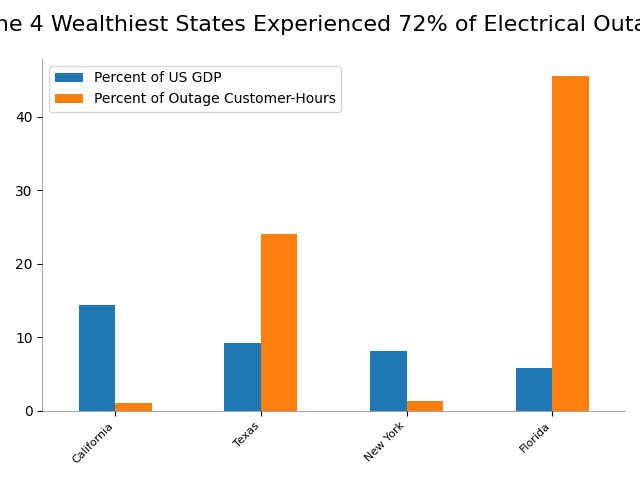
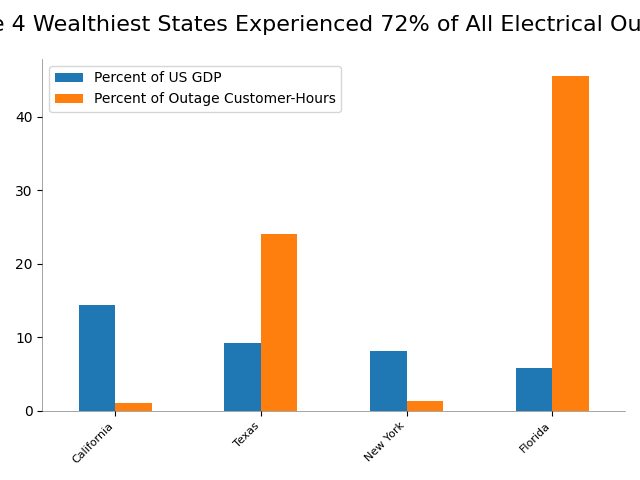
charts cleanup2

Changed region(s): [[0.0, 0.0312, 1.0, 0.0625]]

diff --git a/outages.py b/outages.py
@@ -1,6 +1,6 @@
 import marimo
 
-__generated_with = "0.21.1"
+__generated_with = "0.22.4"
 app = marimo.App(width="medium")
 
 
@@ -13,7 +13,6 @@ def _():
     import numpy as np
     import datetime
     import sqlite3
-    import seaborn as sns
 
     return mo, pd, plt, sqlite3
 
@@ -215,7 +214,6 @@ def _(pd):
     fema_df=fema_df.dropna(subset=['declarationDate'])
     fema_df['Date']=pd.to_datetime(fema_df['declarationDate'])
     fema_df = fema_df[fema_df['Date'].dt.year > 2021]
-    fema_df.head()
     fema_df
     return (fema_df,)
 
@@ -516,14 +514,10 @@ def _(connection, pd, plt):
         limit 3
         """
         graph_df = pd.read_sql(graph_query, connection)
-        #graph_df.set_index('type', inplace=True)
-        # define Seaborn color palette to use
-        #colors = sns.color_palette('dark')
         explode = [0, 0.1, 0.1]
         plt.pie(
             graph_df['Number of Events'],
             labels=graph_df['type'],
-            #colors=colors,
             explode=explode,
             autopct="%1.1f%%",
             #hatch=['**O', 'oO', 'O.O', '.||.'] #uncomment to make beautiful
@@ -690,7 +684,7 @@ def _(connection, pd, plt):
 
         plt.xlabel("Percent of FEMA Grants")
         plt.ylabel("Percent of US Wealth")
-        plt.title("Counties With Leading Outage Times Do Not Correlate to Wealth")
+        plt.title("State Wealth Does Not Correlate to FEMA Grants Received")
         ax.legend()
         plt.ylim(.1, 100)
         plt.xlim(.1, 100)
@@ -725,7 +719,7 @@ def _(connection, pd, plt):
         plt.xticks(rotation=45, ha="right", fontsize=8)
        # plt.ylabel("(%)")
         plt.xlabel("")
-        plt.title(f"The 4 Wealthiest States Experienced {total_cust_hrs}% of Electrical Outages", fontsize=16, pad=20)
+        plt.title(f"The 4 Wealthiest States Experienced {total_cust_hrs}% of All Electrical Outages", fontsize=16, pad=20)
 
         ax = plt.gca()
 